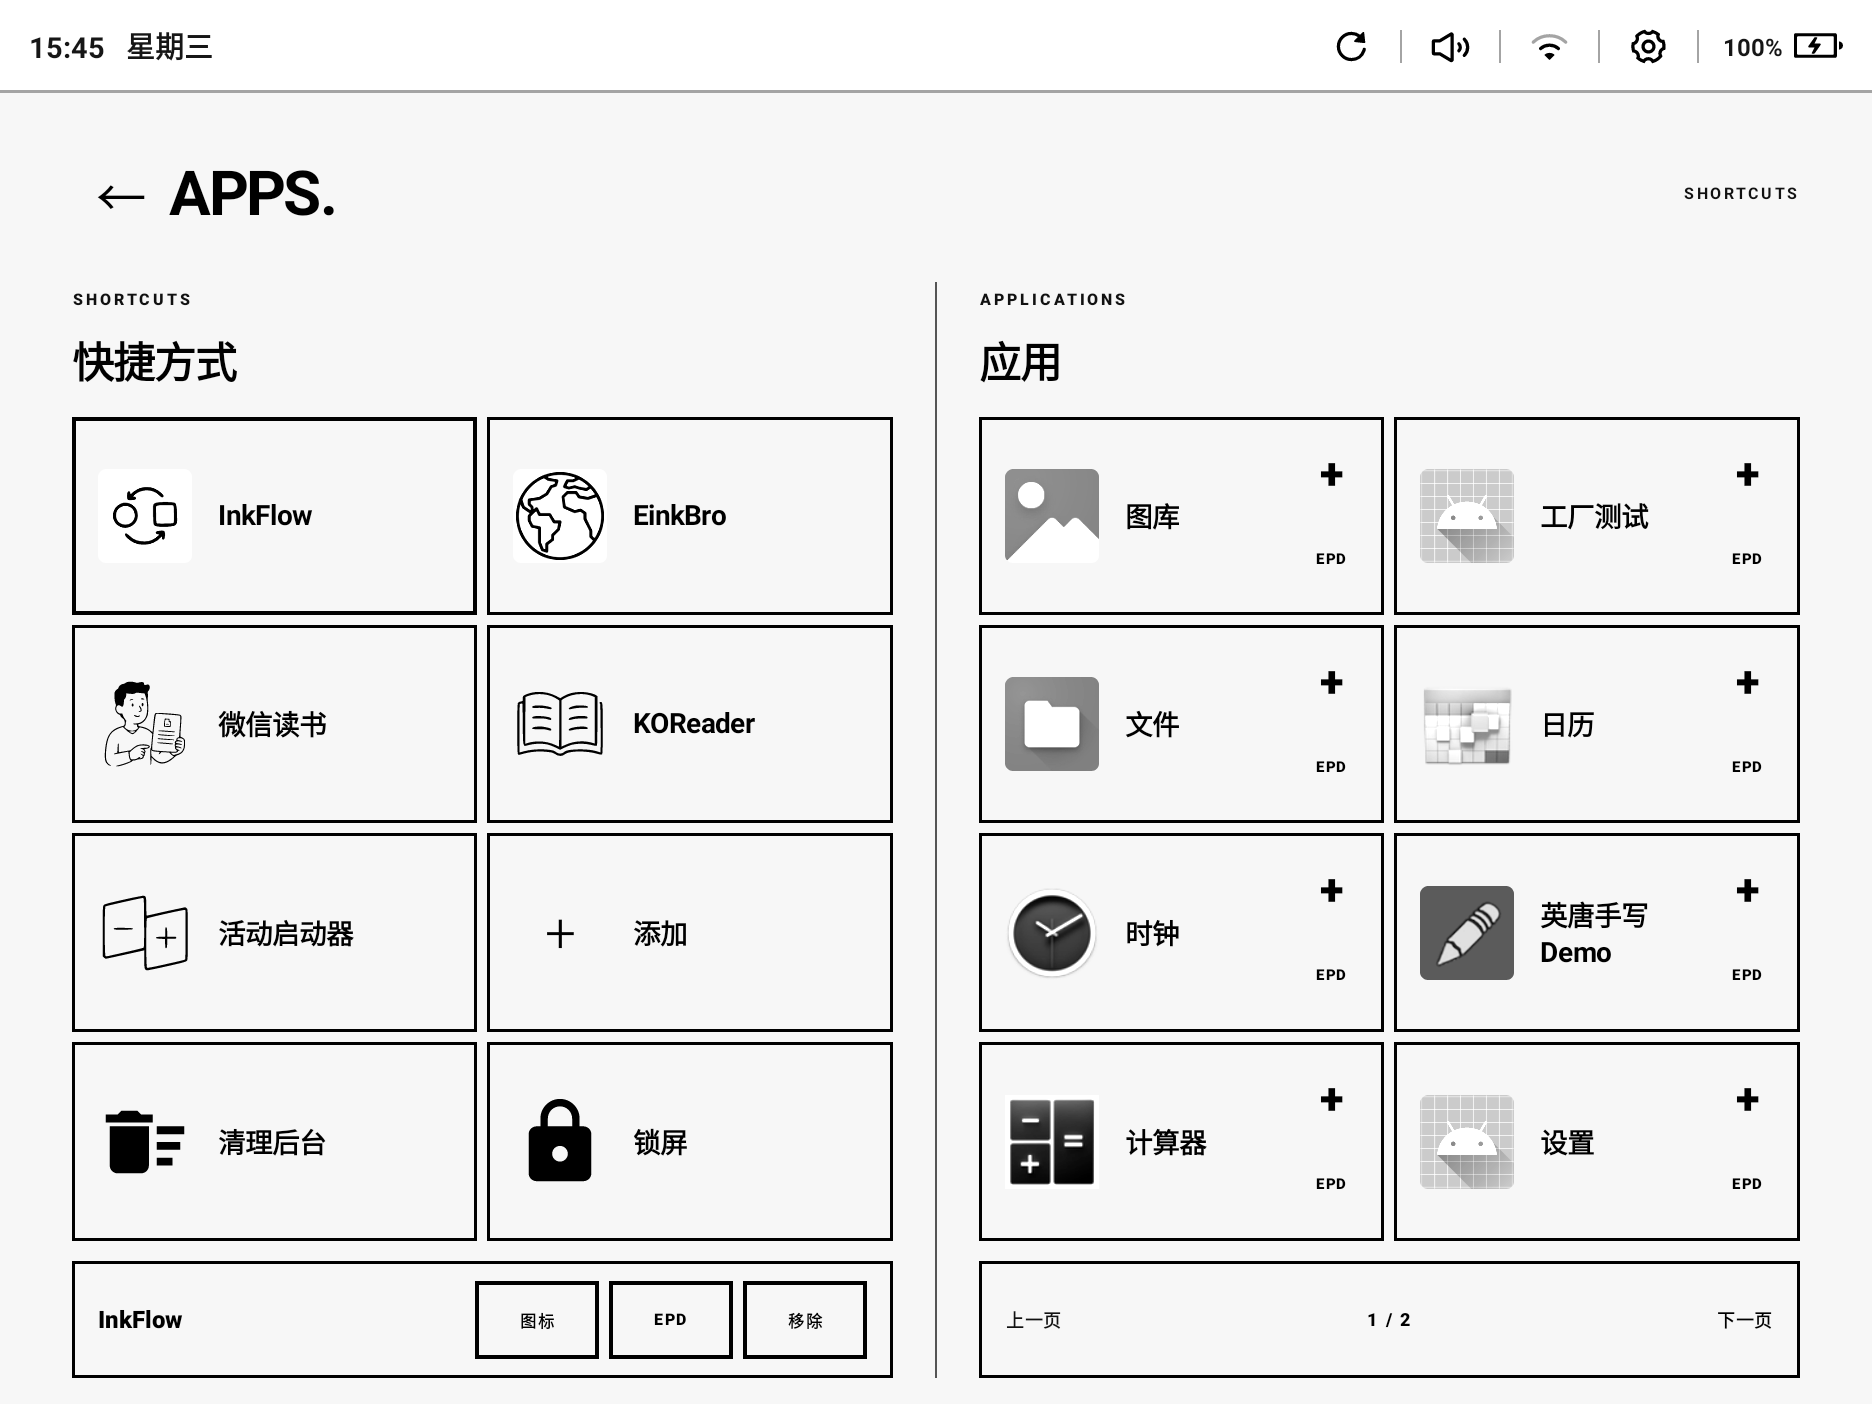
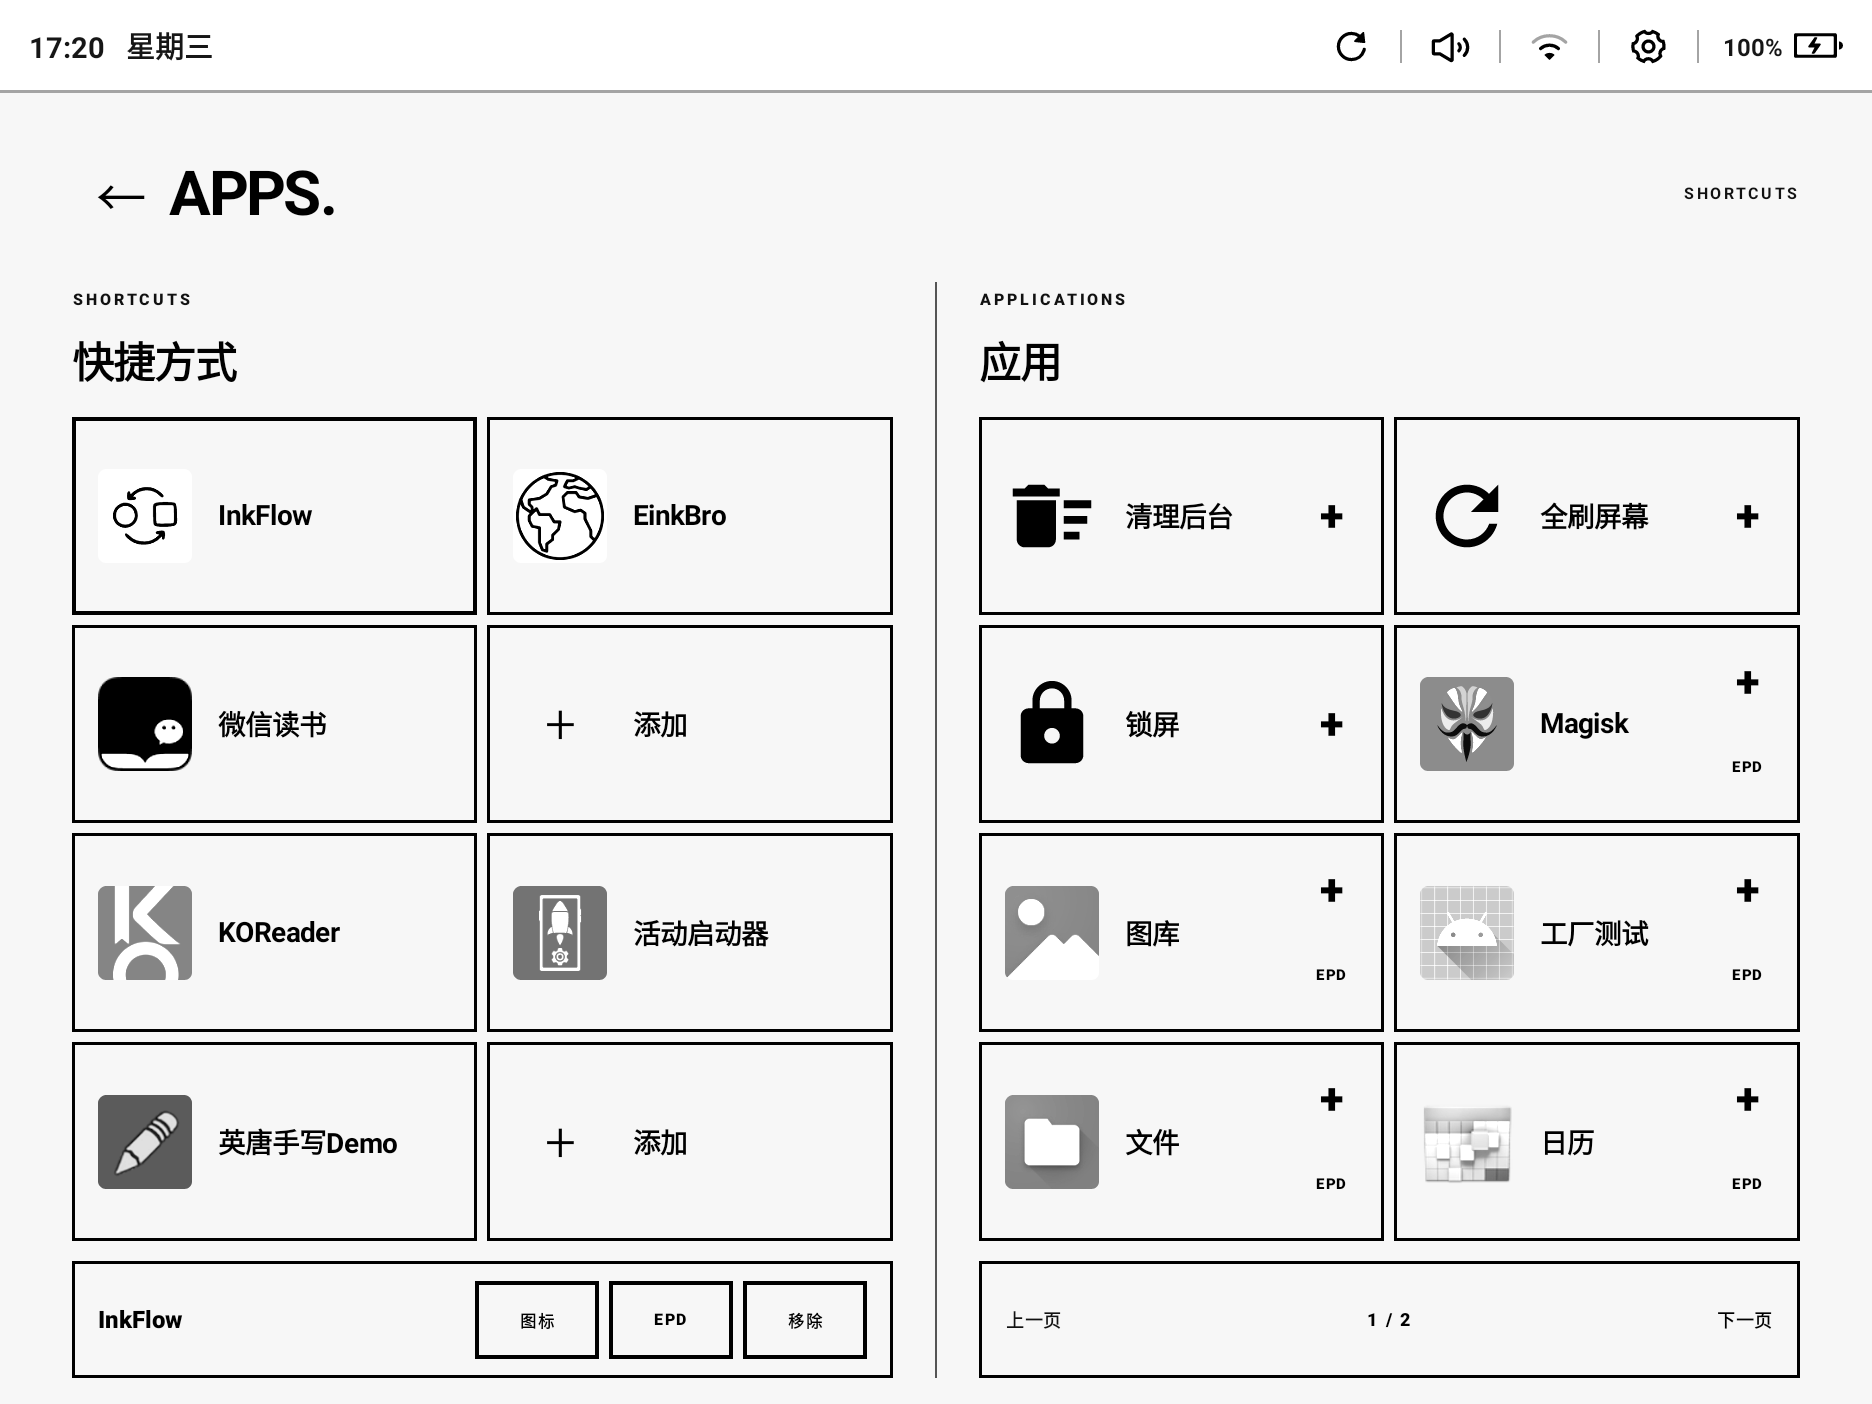
Release InkBoard 1.0.1

diff --git a/app/src/main/java/ai/openduo/inkboard/ui/controls/ControlScreen.kt b/app/src/main/java/ai/openduo/inkboard/ui/controls/ControlScreen.kt
@@ -124,7 +124,6 @@ internal fun ControlPage(
 
             val openSystemEpd = epd.openSystem
             val openInkBoardEpd = epd.openInkBoard
-            val refreshScreen = epd.refresh
 
             if (wide) {
                 Row(
@@ -132,7 +131,7 @@ internal fun ControlPage(
                         .fillMaxWidth()
                         .weight(1f)
                 ) {
-                    if (openSystemEpd != null && openInkBoardEpd != null && refreshScreen != null) {
+                    if (openSystemEpd != null && openInkBoardEpd != null) {
                         ControlDomain(
                             kicker = "DISPLAY",
                             title = "显示",
@@ -141,7 +140,6 @@ internal fun ControlPage(
                             ControlActionTile(
                                 title = "系统默认",
                                 detail = "所有未单独设置的应用",
-                                emphasized = true,
                                 onClick = openSystemEpd,
                                 modifier = Modifier.weight(1f)
                             )
@@ -150,13 +148,6 @@ internal fun ControlPage(
                                 title = "InkBoard",
                                 detail = "桌面自己的 DPI · 对比度 · 浅色",
                                 onClick = openInkBoardEpd,
-                                modifier = Modifier.weight(1f)
-                            )
-                            Spacer(Modifier.height(6.dp))
-                            ControlActionTile(
-                                title = "全刷屏幕",
-                                detail = "立即清除当前残影",
-                                onClick = refreshScreen,
                                 modifier = Modifier.weight(1f)
                             )
                         }
@@ -178,7 +169,7 @@ internal fun ControlPage(
                             title = "快捷方式",
                             detail = "管理桌面的 8 个位置",
                             onClick = onOpenApps,
-                            modifier = Modifier.weight(0.72f)
+                            modifier = Modifier.weight(1f)
                         )
                     }
                     VerticalRule()
@@ -200,41 +191,31 @@ internal fun ControlPage(
                             title = "系统设置",
                             detail = "Android",
                             onClick = actions.onOpenSystemSettings,
-                            modifier = Modifier.weight(0.72f)
+                            modifier = Modifier.weight(1f)
                         )
                     }
                 }
             } else {
                 Column(modifier = Modifier.fillMaxWidth().weight(1f)) {
-                    if (openSystemEpd != null && openInkBoardEpd != null && refreshScreen != null) {
+                    if (openSystemEpd != null && openInkBoardEpd != null) {
                         ControlDomain(
                             kicker = "DISPLAY",
                             title = "显示",
                             modifier = Modifier.weight(1f)
                         ) {
-                            Column(modifier = Modifier.fillMaxWidth().weight(1f)) {
-                                Row(modifier = Modifier.fillMaxWidth().weight(1f)) {
-                                    ControlActionTile(
-                                        title = "系统默认",
-                                        detail = "未单独设置的应用",
-                                        emphasized = true,
-                                        onClick = openSystemEpd,
-                                        modifier = Modifier.weight(1f)
-                                    )
-                                    Spacer(Modifier.width(6.dp))
-                                    ControlActionTile(
-                                        title = "InkBoard",
-                                        detail = "桌面 EPD",
-                                        onClick = openInkBoardEpd,
-                                        modifier = Modifier.weight(1f)
-                                    )
-                                }
-                                Spacer(Modifier.height(6.dp))
+                            Row(modifier = Modifier.fillMaxWidth().weight(1f)) {
                                 ControlActionTile(
-                                    title = "全刷屏幕",
-                                    detail = "清除残影",
-                                    onClick = refreshScreen,
-                                    modifier = Modifier.weight(0.72f)
+                                    title = "系统默认",
+                                    detail = "未单独设置的应用",
+                                    onClick = openSystemEpd,
+                                    modifier = Modifier.weight(1f)
+                                )
+                                Spacer(Modifier.width(6.dp))
+                                ControlActionTile(
+                                    title = "InkBoard",
+                                    detail = "桌面 EPD",
+                                    onClick = openInkBoardEpd,
+                                    modifier = Modifier.weight(1f)
                                 )
                             }
                         }

diff --git a/app/src/main/java/ai/openduo/inkboard/MainActivity.kt b/app/src/main/java/ai/openduo/inkboard/MainActivity.kt
@@ -1,5 +1,6 @@
 package ai.openduo.inkboard
 
+import android.content.Intent
 import android.os.Bundle
 import androidx.activity.ComponentActivity
 import androidx.activity.compose.setContent
@@ -10,17 +11,22 @@ import androidx.compose.foundation.layout.safeDrawingPadding
 import androidx.compose.runtime.getValue
 import androidx.compose.runtime.remember
 import androidx.compose.ui.Modifier
+import androidx.lifecycle.Lifecycle
 import androidx.lifecycle.compose.collectAsStateWithLifecycle
 import androidx.lifecycle.lifecycleScope
 import ai.openduo.inkboard.ui.LauncherActions
 import ai.openduo.inkboard.ui.home.LauncherHome
 import ai.openduo.inkboard.ui.theme.InkBoardTheme
+import kotlinx.coroutines.Job
+import kotlinx.coroutines.delay
 import kotlinx.coroutines.launch
 
 class MainActivity : ComponentActivity() {
 
     private val viewModel: LauncherViewModel by viewModels()
     private var uiAttached = false
+    private var wasInBackground = false
+    private var homeRefreshJob: Job? = null
 
     override fun onCreate(savedInstanceState: Bundle?) {
         super.onCreate(savedInstanceState)
@@ -71,11 +77,48 @@ class MainActivity : ComponentActivity() {
 
     override fun onResume() {
         super.onResume()
+        val returningToHome = uiAttached && wasInBackground
+        wasInBackground = false
         if (!uiAttached) return
+        if (returningToHome) scheduleHomeRefresh()
         viewModel.refreshStatus()
         // Home shortcuts are process-cached; refresh keeps the drawer catalog
         // current without clearing the desktop snapshot first.
         viewModel.refreshApps()
+    }
+
+    override fun onPause() {
+        super.onPause()
+        wasInBackground = uiAttached
+        homeRefreshJob?.cancel()
+        homeRefreshJob = null
+    }
+
+    override fun onNewIntent(intent: Intent) {
+        super.onNewIntent(intent)
+        setIntent(intent)
+        // A HOME intent is delivered to this singleTask launcher when the
+        // system Home button brings the existing desktop task forward. The
+        // onResume fallback above covers firmware that only resumes the task.
+        if (intent.action == Intent.ACTION_MAIN &&
+            intent.categories?.contains(Intent.CATEGORY_HOME) == true
+        ) {
+            scheduleHomeRefresh()
+        }
+    }
+
+    private fun scheduleHomeRefresh() {
+        if (!uiAttached) return
+        homeRefreshJob?.cancel()
+        homeRefreshJob = lifecycleScope.launch {
+            // Let the launcher surface become the visible frame before asking
+            // the driver to repaint it. This avoids refreshing the app that
+            // was just left during the HOME transition.
+            delay(HOME_REFRESH_SETTLE_MS)
+            if (lifecycle.currentState.isAtLeast(Lifecycle.State.RESUMED)) {
+                viewModel.refreshEpdScreen()
+            }
+        }
     }
 
     @Deprecated("Deprecated in Java")
@@ -88,5 +131,9 @@ class MainActivity : ComponentActivity() {
         } else {
             onBackPressedDispatcher.onBackPressed()
         }
+    }
+
+    private companion object {
+        private const val HOME_REFRESH_SETTLE_MS = 120L
     }
 }

diff --git a/app/src/main/java/ai/openduo/inkboard/LauncherViewModel.kt b/app/src/main/java/ai/openduo/inkboard/LauncherViewModel.kt
@@ -262,6 +262,12 @@ class LauncherViewModel(application: Application) : AndroidViewModel(application
                 }
                 return
             }
+            BuiltInShortcut.FULL_REFRESH -> {
+                // The app drawer closes at the same time as this action. Give
+                // Compose a moment to expose the desktop before repainting it.
+                refreshEpdScreenAfterNavigation()
+                return
+            }
             BuiltInShortcut.LOCK_SCREEN -> {
                 SystemControls.lockScreen(ctx)
                 return
@@ -474,7 +480,16 @@ class LauncherViewModel(application: Application) : AndroidViewModel(application
     }
 
     fun refreshEpdScreen() {
+        requestFullRefreshAfter(0L)
+    }
+
+    private fun refreshEpdScreenAfterNavigation() {
+        requestFullRefreshAfter(FULL_REFRESH_SETTLE_MS)
+    }
+
+    private fun requestFullRefreshAfter(delayMs: Long) {
         viewModelScope.launch(Dispatchers.IO) {
+            if (delayMs > 0) delay(delayMs)
             if (!epdRepo.requestFullRefresh()) {
                 // requestFullRefresh no-ops off S11A; only surface an error when
                 // the stack is present but the call failed.
@@ -547,5 +562,6 @@ class LauncherViewModel(application: Application) : AndroidViewModel(application
 
     companion object {
         private const val TAG = "InkBoardBoot"
+        private const val FULL_REFRESH_SETTLE_MS = 150L
     }
 }

diff --git a/app/src/main/java/ai/openduo/inkboard/ui/components/UiPrimitives.kt b/app/src/main/java/ai/openduo/inkboard/ui/components/UiPrimitives.kt
@@ -26,6 +26,7 @@ import androidx.compose.foundation.shape.RoundedCornerShape
 import androidx.compose.material.icons.Icons
 import androidx.compose.material.icons.filled.DeleteSweep
 import androidx.compose.material.icons.filled.Lock
+import androidx.compose.material.icons.filled.Refresh
 import androidx.compose.material3.Icon
 import androidx.compose.material3.Text
 import androidx.compose.runtime.Composable
@@ -395,6 +396,7 @@ internal fun AppGlyph(
     val shortcut = app.builtInShortcut ?: return
     val glyph = when (shortcut) {
         BuiltInShortcut.CLEAR_BACKGROUND -> Icons.Filled.DeleteSweep
+        BuiltInShortcut.FULL_REFRESH -> Icons.Filled.Refresh
         BuiltInShortcut.LOCK_SCREEN -> Icons.Filled.Lock
     }
     Icon(

diff --git a/app/src/main/java/ai/openduo/inkboard/data/AppRepository.kt b/app/src/main/java/ai/openduo/inkboard/data/AppRepository.kt
@@ -117,6 +117,13 @@ class AppRepository(private val context: Context) {
                 builtInShortcut = BuiltInShortcut.CLEAR_BACKGROUND
             ),
             AppInfo(
+                label = "全刷屏幕",
+                packageName = shortcutPackage,
+                activityName = BuiltInShortcut.FULL_REFRESH.id,
+                icon = null,
+                builtInShortcut = BuiltInShortcut.FULL_REFRESH
+            ),
+            AppInfo(
                 label = "锁屏",
                 packageName = shortcutPackage,
                 activityName = BuiltInShortcut.LOCK_SCREEN.id,

diff --git a/app/src/main/java/ai/openduo/inkboard/data/AppInfo.kt b/app/src/main/java/ai/openduo/inkboard/data/AppInfo.kt
@@ -4,6 +4,7 @@ import android.graphics.drawable.Drawable
 
 enum class BuiltInShortcut(val id: String) {
     CLEAR_BACKGROUND("clear_background"),
+    FULL_REFRESH("full_refresh"),
     LOCK_SCREEN("lock_screen")
 }
 

diff --git a/docs/EPD_S11A.md b/docs/EPD_S11A.md
@@ -22,6 +22,17 @@
 
 当前系统色彩模式只有 `NATIVE (0)`。它不是普通 LCD 那种可在多个色彩空间之间切换的选项；浅色不清晰时，应优先检查 EPD 波形、对比度、浅色处理和全刷策略。
 
+## 即时全刷
+
+系统顶部导航栏的刷新按钮对应 `android.os.EinkManager.sendOneFullFrame()`，不是修改
+`refresh_frequency` 的配置操作。S11A 的 SystemUI `NavigationBarFragment` 在按钮点击时
+直接调用这个 Binder 方法，然后让导航栏自身重绘；InkBoard 的
+`EpdSettingsRepository.requestFullRefresh()` 复用同一调用。
+
+当 InkBoard 作为默认 HOME 从其它应用回到前台时，`MainActivity` 会等待桌面窗口稳定后
+请求一次全刷，避免刷新到刚离开的应用画面。需要手动清残影时，也可以在 `APPS` 中选择
+内置工具“全刷屏幕”，把它加入 8 个桌面位置；它与设置页使用同一调用链。
+
 ## 系统 EPD Provider
 
 系统自带的“应用优化”对话框使用：

diff --git a/docs/ARCHITECTURE.md b/docs/ARCHITECTURE.md
@@ -136,6 +136,10 @@ EPD 的真实字段、刷新策略和 S11A 固件限制见 [EPD_S11A.md](EPD_S11
 
 默认刷新策略是 InkBoard 维护的“跟随默认应用集合”，不是一个虚构的常驻系统服务。改变默认策略时由 ViewModel 同步跟随默认的应用；独立应用不会被覆盖。
 
+即时全刷仍走 `EpdSettingsRepository.requestFullRefresh()` 的 `EinkManager.sendOneFullFrame()`；
+默认 HOME 返回由 `MainActivity` 在桌面恢复后触发一次，手动入口则作为 `BuiltInShortcut.FULL_REFRESH`
+出现在 APPS 的内置工具中，避免页面层直接碰厂商服务。
+
 ## 验证清单
 
 每次涉及架构或页面行为的改动至少执行：
